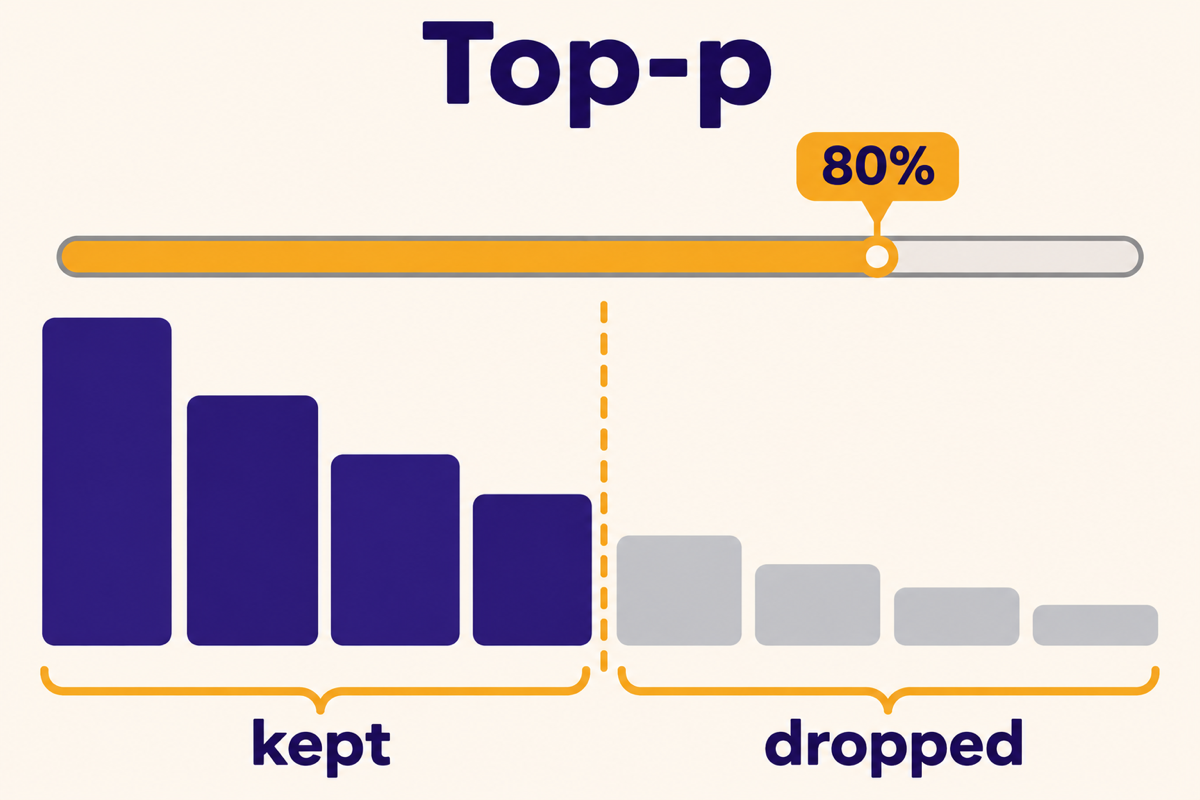
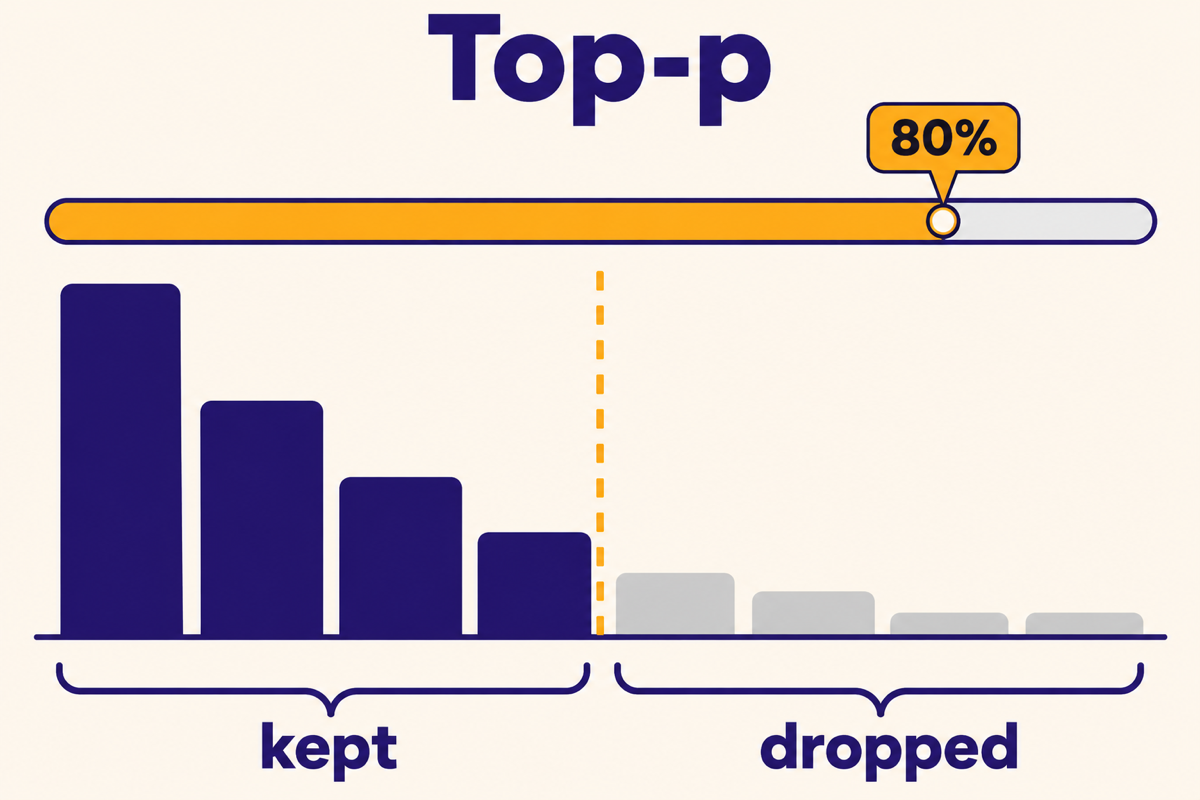
c2-09: regenerate top-p illustration so the cutoff matches the bars

Changed region(s): [[0.0308, 0.125, 0.9867, 1.0], [0.3392, 0.0, 0.6475, 0.1562]]

diff --git a/docs/lesson-reports/genai-basics/c2-09.md b/docs/lesson-reports/genai-basics/c2-09.md
@@ -35,7 +35,8 @@
 | Temperature 0 treated as greedy | general fact | not separately sourced | how |
 | Low temperature is often not perfectly repeatable in practice | hedged general fact | not separately sourced | how |
 | Ranges, defaults and availability differ by provider | general fact | not separately sourced | mix, lab disclosure |
-| Illustration bar heights, the 80% marker position, the dial | illustrative, generated image, not tied to lab values | none | captions say "schematic" |
+| Top-p illustration: first three bars about 75% of total height, first four about 85%, marker near 80% | measured from the image pixels after a Codex review found the first version reached only about 76% at the cutoff; the image was regenerated | none | captions say "schematic" |
+| Other illustration bar heights and the dial | illustrative, generated image, not tied to lab values | none | captions say "schematic" |
 | Top-p keeps 2 of 5 (factual) and 4 of 8 (story) at temperature 1; top-k with k = 3 keeps 3 | computed from the invented lab scores, checked in a test | none | settings |
 | Applying temperature before the trim changes how many candidates top-p keeps | general consequence of how top-p adds probabilities; the order in real systems varies | not separately sourced | mix |
 | Some documentation suggests changing one of these settings at a time | hedged general statement | not separately sourced, a reviewer should confirm | mix |
